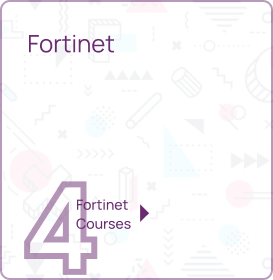
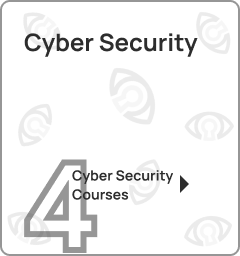
feat: new course images updates

Changed region(s): [[0.0, 0.0, 1.0, 1.0], [0.0875, 0.125, 0.8167, 0.2188]]

diff --git a/src/data/data.js b/src/data/data.js
@@ -2,6 +2,22 @@ import salesforceBanner from "../assets/images/courses/salesforce-banner.png";
 import servicenowBanner from "../assets/images/courses/servicenow-banner.png";
 import awsBanner from "../assets/images/courses/aws-banner.png";
 import fortinet from "../assets/images/courses/fortinet-banner.png";
+import sfCertiOne from "../assets/images/courses/sf-certi-one.png";
+import sfCertiTwo from "../assets/images/courses/sf-certi-two.png";
+import sfCertiThree from "../assets/images/courses/sf-certi-three.png";
+
+import awsCertiOne from "../assets/images/courses/aws-certi-one.png";
+import awsCertiTwo from "../assets/images/courses/aws-certi-two.png";
+import awsCertiThree from "../assets/images/courses/aws-certi-three.png";
+
+import snCertiTwo from "../assets/images/courses/sn-certi-two.png";
+import snCertiThree from "../assets/images/courses/sn-certi-three.png";
+
+import fortinetCertiOne from "../assets/images/courses/fortinet-certi-one.png";
+import fortinetCertiTwo from "../assets/images/courses/fortinet-certi-two.png";
+import fortinetCertiThree from "../assets/images/courses/fortinet-certi-three.png";
+import fortinetCertiFour from "../assets/images/courses/fortinet-certi-four.png";
+import fortinetCertiFive from "../assets/images/courses/fortinet-certi-five.png";
 
 export const data = {
   all: [
@@ -10,7 +26,7 @@ export const data = {
       name: "Salesforce",
       order: 1,
       status: 1,
-      colorTheme: "#1176ae",
+      colorTheme: "#280F8F",
       levelImgUrl: salesforceBanner,
       backgroundColor: "rgba(17, 118, 174, 0.1)",
       type: "COURSES",
@@ -22,8 +38,7 @@ export const data = {
           course_link:
             "https://drive.google.com/file/d/1uz8FEuAqYDpIKwFvfpJqmjy4_NyQZ2Sl/view",
           bundle: "63e49996caab6b501a9dcb9f",
-          img_url:
-            "https://jayaho-lms-public.s3.ap-south-1.amazonaws.com/course-608d976b5266a911a12965f4.png",
+          img_url: sfCertiOne,
         },
         {
           _id: "606d97f8c2e3de2e66ed318a",
@@ -31,8 +46,7 @@ export const data = {
           course_link:
             "https://drive.google.com/file/d/1rt-6hWE8aU-aiybPYTBXCxQVyqOsn_jV/view",
           bundle: "63e49996caab6b501a9dcb9f",
-          img_url:
-            "https://jayaho-lms-public-production.s3.ap-south-1.amazonaws.com/course-606d97f8c2e3de2e66ed318a.png",
+          img_url: sfCertiTwo,
         },
         {
           _id: "606ddfb8783dab59377d6e45",
@@ -40,8 +54,7 @@ export const data = {
           bundle: "63e49996caab6b501a9dcb9f",
           course_link:
             "https://drive.google.com/file/d/1GkTz2U6t5TV2e0fy1aeSKu7zTHLNtc0y/view",
-          img_url:
-            "https://jayaho-lms-public-production.s3.ap-south-1.amazonaws.com/course-606ddfb8783dab59377d6e45.png",
+          img_url: sfCertiThree,
         },
       ],
     },
@@ -50,7 +63,7 @@ export const data = {
       name: "Service Now",
       order: 2,
       status: 0,
-      colorTheme: "#ea4335",
+      colorTheme: "#537568",
       levelImgUrl: servicenowBanner,
       backgroundColor: "rgba(17, 118, 174, 0.1)",
       type: "COURSES",
@@ -58,13 +71,12 @@ export const data = {
       courses: [
         {
           _id: "606dd46a8655da5146199d21",
-          name: "ServiceNow - Certified System Administrator",
+          name: "ServiceNow - Fundamentals",
           course_link:
             "https://learning.servicenow.com/lxp/en/credentials?id=kb_article_view&sys_kb_id=8e85a58f97e5a5507f7070871153af38",
           bundle: "63e49a07caab6b501a9dcba0",
 
-          img_url:
-            "https://jayaho-lms-public-production.s3.ap-south-1.amazonaws.com/course-606dd46a8655da5146199d21.png",
+          img_url: snCertiTwo,
         },
         {
           _id: "60f92f6209a56f1c247fa51c",
@@ -72,8 +84,7 @@ export const data = {
           course_link:
             "https://learning.servicenow.com/lxp/en/credentials?id=kb_article_view&sys_kb_id=8e85a58f97e5a5507f7070871153af38",
           bundle: "63e49a07caab6b501a9dcba0",
-          img_url:
-            "https://jayaho-lms-public-production.s3.ap-south-1.amazonaws.com/course-60f92f6209a56f1c247fa51c.png",
+          img_url: snCertiTwo,
         },
         {
           _id: "60a51ee39e4b20246babb9c5",
@@ -81,8 +92,7 @@ export const data = {
           course_link:
             "https://learning.servicenow.com/lxp/en/credentials?id=kb_article_view&sys_kb_id=1052565087792910bfe94088dabb35b6",
           bundle: "63e49a07caab6b501a9dcba0",
-          img_url:
-            "https://jayaho-lms-public-production.s3.ap-south-1.amazonaws.com/course-60a51ee39e4b20246babb9c5.png",
+          img_url: snCertiThree,
         },
       ],
     },
@@ -91,7 +101,7 @@ export const data = {
       name: "AWS",
       order: 3,
       status: 0,
-      colorTheme: "#f46c30",
+      colorTheme: "#1176AE",
       levelImgUrl: awsBanner,
       backgroundColor: "rgba(17, 118, 174, 0.1)",
       type: "COURSES",
@@ -103,8 +113,7 @@ export const data = {
           bundle: "63e49a48caab6b501a9dcba1",
           course_link:
             "https://drive.google.com/file/d/18Nn-Y3wLWFDsRiXCcXH2hSEiEK_KJ-Nt/view",
-          img_url:
-            "https://jayaho-lms-public-production.s3.ap-south-1.amazonaws.com/course-60a89401ff4ca91573480eb2_new.png",
+          img_url: awsCertiOne,
           bundleName: "Coding",
         },
         {
@@ -136,8 +145,7 @@ export const data = {
             short:
               "Explore usage of natural language to solve problem sequentially",
           },
-          img_url:
-            "https://jayaho-lms-public-production.s3.ap-south-1.amazonaws.com/course-60a51f519e4b20246babb9c6.png",
+          img_url: awsCertiTwo,
           status: 0,
           priceCurrency: "USD",
           isActive: true,
@@ -149,8 +157,7 @@ export const data = {
           bundle: "63e49a48caab6b501a9dcba1",
           course_link:
             "https://drive.google.com/file/d/1Vfn_iNWlM9cy7tst1jZm5DY9FNlFVrzu/view",
-          img_url:
-            "https://jayaho-lms-public-production.s3.ap-south-1.amazonaws.com/course-606dd4088655da5146199d20.png",
+          img_url: awsCertiThree,
         },
       ],
     },
@@ -159,7 +166,7 @@ export const data = {
       name: "Fortinet Courses",
       order: 4,
       status: 0,
-      colorTheme: "#6a2c70",
+      colorTheme: "#2D2D2D",
       levelImgUrl: fortinet,
       backgroundColor: "rgba(17, 118, 174, 0.1)",
       type: "COURSES",
@@ -171,8 +178,7 @@ export const data = {
           bundle: "63e49a76caab6b501a9dcba2",
           course_link:
             "https://training.fortinet.com/local/staticpage/view.php?page=fcf_cybersecurity",
-          img_url:
-            "https://jayaho-lms-public-production.s3.ap-south-1.amazonaws.com/course-60f932acd8fb5a21b527ef3f.png",
+          img_url: fortinetCertiOne,
           status: 0,
           priceCurrency: "USD",
           isActive: true,
@@ -184,8 +190,7 @@ export const data = {
           bundle: "63e49a76caab6b501a9dcba2",
           course_link:
             "https://training.fortinet.com/local/staticpage/view.php?page=fca_cybersecurity",
-          img_url:
-            "https://jayaho-lms-public-production.s3.ap-south-1.amazonaws.com/course-60f932d7d8fb5a21b527ef40.png",
+          img_url: fortinetCertiTwo,
         },
         {
           _id: "60f932e5d8fb5a21b527ef41",
@@ -193,8 +198,7 @@ export const data = {
           bundle: "63e49a76caab6b501a9dcba2",
           course_link:
             "https://training.fortinet.com/local/staticpage/view.php?page=fcp_security_operations",
-          img_url:
-            "https://jayaho-lms-public-production.s3.ap-south-1.amazonaws.com/course-60f932e5d8fb5a21b527ef41.png",
+          img_url: fortinetCertiThree,
         },
         {
           _id: "60f932e5d8fb5a21b527ef42",
@@ -202,8 +206,7 @@ export const data = {
           bundle: "63e49a76caab6b501a9dcba2",
           course_link:
             "https://training.fortinet.com/local/staticpage/view.php?page=fcss_security_operations",
-          img_url:
-            "https://jayaho-lms-public-production.s3.ap-south-1.amazonaws.com/course-60f932e5d8fb5a21b527ef41.png",
+          img_url: fortinetCertiFour,
         },
         {
           _id: "60f932e5d8fb5a21b527ef43",
@@ -211,8 +214,7 @@ export const data = {
           bundle: "63e49a76caab6b501a9dcba2",
           course_link:
             "https://training.fortinet.com/local/staticpage/view.php?page=fcx_cybersecurity",
-          img_url:
-            "https://jayaho-lms-public-production.s3.ap-south-1.amazonaws.com/course-60f932e5d8fb5a21b527ef41.png",
+          img_url: fortinetCertiFive,
         },
       ],
     },

diff --git a/src/views/HomePage/HeroSection.jsx b/src/views/HomePage/HeroSection.jsx
@@ -79,7 +79,7 @@ export default function Hero() {
       <img className={style.bgright} src={bgright} alt="" />
       <img className={style.bgleft} src={bgleft} alt="" />
 
-      <div className={style.maxWidthContainer}>
+      <div className={`${style.maxWidthContainer} min-h-screen`}>
         <div className={style.hero}>
           <div className={style.text}>
             <p className={style.heading}>
@@ -145,7 +145,7 @@ export default function Hero() {
           </div> */}
         </div>
 
-        <div className={style.statsContainer}>
+        {/* <div className={style.statsContainer}>
           <div className={style.heading}>
             We’re building the problem solving playground for future
             <div
@@ -201,7 +201,7 @@ export default function Hero() {
               </Swiper>
             </div>
           </div>
-        </div>
+        </div> */}
       </div>
     </div>
   );

diff --git a/index.html b/index.html
@@ -3,9 +3,9 @@
 
 <head>
   <meta charset="UTF-8" />
-  <link rel="icon" type="image/svg+xml" href="/vite.svg" />
+  <!-- <link rel="icon" type="image/svg+xml" href="/vite.svg" /> -->
   <meta name="viewport" content="width=device-width, initial-scale=1.0" />
-  <title>Vite + React</title>
+  <title>Nvedika | Prepare yourself for an Extraordinary Future 🚀</title>
 
   <style>
     * {

diff --git a/src/views/layout/Footer/index.jsx b/src/views/layout/Footer/index.jsx
@@ -149,7 +149,7 @@ const Footer = () => {
         </div>
       </div>
       <div className={styles.copyrightWrapper}>
-        <p>Copyright © {new Date().getFullYear()} nvedika.com</p>
+        <p>copyright © {new Date().getFullYear()} nvedika.com</p>
         <p>
           Contact: <a href="mailto:info@nvedika.com">info@nvedika.com</a>
         </p>

diff --git a/src/views/Courses/Banner.jsx b/src/views/Courses/Banner.jsx
@@ -52,7 +52,6 @@ export default function Banner() {
           >
             <SwiperSlide>
               <div
-                onClick={onClick}
                 style={{ cursor: "pointer" }}
                 // className={styles.slide}
               >

diff --git a/src/views/HomePage/index.jsx b/src/views/HomePage/index.jsx
@@ -5,7 +5,7 @@ import HeroSection from "./HeroSection";
 
 export default function HomePageIndex() {
   return (
-    <div className={styles.wrapper}>
+    <div>
       <HeroSection />
 
       {/* <Roadmap /> */}
